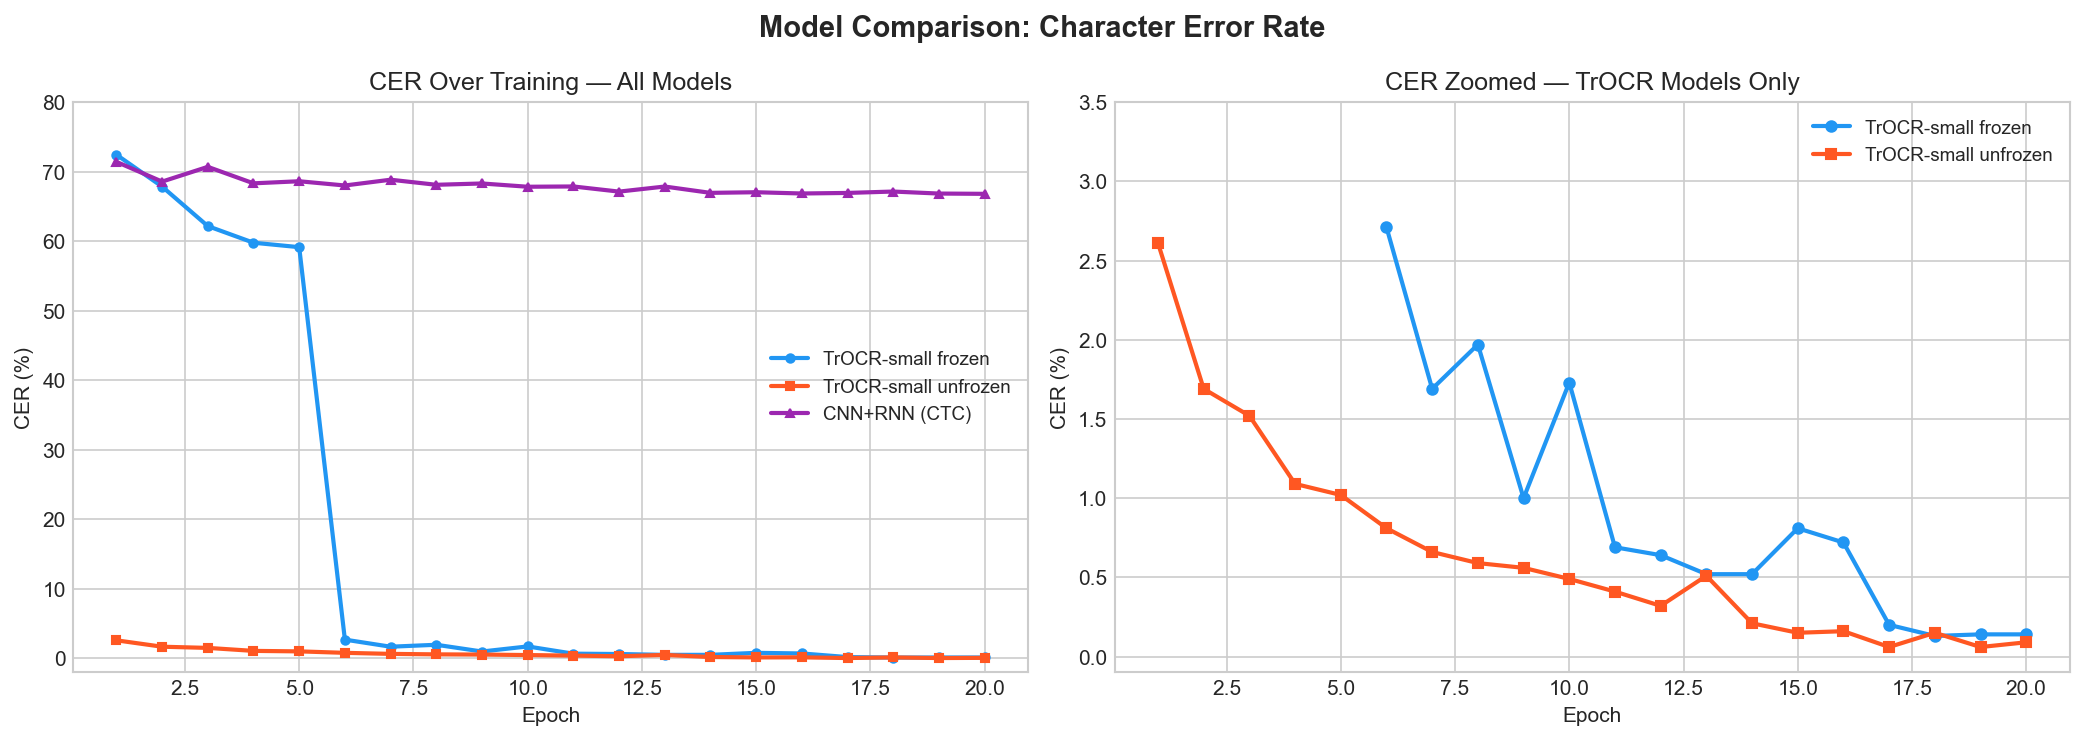
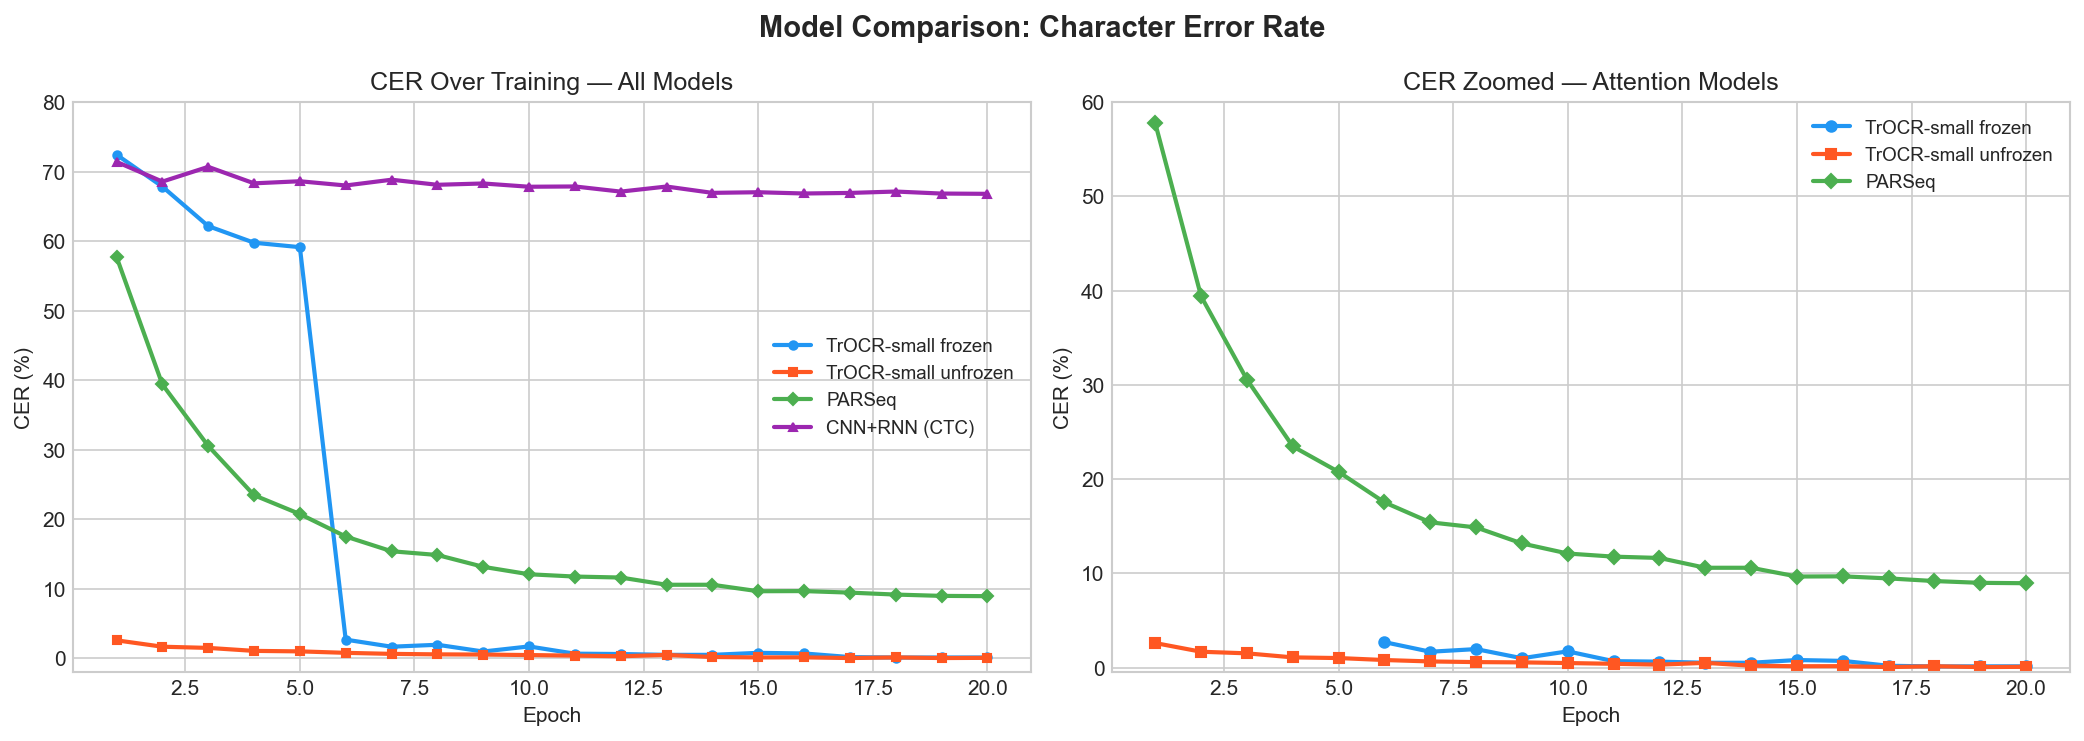
Add PARSeq results (8.96% CER) and update all comparison charts
PARSeq (24M params, ViT + Transformer decoder): 8.96% CER, 72.2% exact.
Clear second-best after TrOCR-small (0.06%), confirming that attention
is the key ingredient but pretrained language model decoder gives
TrOCR an additional 150x advantage.

Updated all comparison charts to include PARSeq alongside TrOCR-small,
CNN+RNN, and large model baselines.

diff --git a/scripts/plot_model_comparison.py b/scripts/plot_model_comparison.py
@@ -57,6 +57,20 @@ small_unfrozen_exact = [
     99.2, 99.7, 99.4, 99.8, 99.8,
 ]
 
+# PARSeq
+parseq_cer = [
+    57.75, 39.40, 30.57, 23.48, 20.77,
+    17.54, 15.42, 14.88, 13.18, 12.11,
+    11.78, 11.64, 10.60, 10.60, 9.67,
+    9.69, 9.47, 9.19, 9.00, 8.96,
+]
+parseq_exact = [
+    29.4, 38.7, 47.9, 55.0, 58.5,
+    60.8, 63.6, 65.3, 66.4, 67.4,
+    68.5, 69.2, 69.8, 70.1, 70.5,
+    70.8, 71.6, 72.1, 72.1, 72.2,
+]
+
 # Large models (single point, not epoch-based)
 large_models = {
     "GPT-4o\n(zero-shot)": 98.22,
@@ -70,6 +84,7 @@ colors = {
     "frozen": "#2196F3",
     "unfrozen": "#FF5722",
     "cnn_rnn": "#9C27B0",
+    "parseq": "#4CAF50",
     "large": "#607D8B",
 }
 
@@ -79,6 +94,7 @@ fig, (ax1, ax2) = plt.subplots(1, 2, figsize=(14, 5))
 # Full range
 ax1.plot(epochs, small_frozen_cer, "o-", color=colors["frozen"], label="TrOCR-small frozen", linewidth=2, markersize=4)
 ax1.plot(epochs, small_unfrozen_cer, "s-", color=colors["unfrozen"], label="TrOCR-small unfrozen", linewidth=2, markersize=4)
+ax1.plot(epochs, parseq_cer, "D-", color=colors["parseq"], label="PARSeq", linewidth=2, markersize=4)
 ax1.plot(epochs, cnn_rnn_cer, "^-", color=colors["cnn_rnn"], label="CNN+RNN (CTC)", linewidth=2, markersize=4)
 ax1.set_xlabel("Epoch")
 ax1.set_ylabel("CER (%)")
@@ -86,14 +102,15 @@ ax1.set_title("CER Over Training — All Models")
 ax1.legend(fontsize=9)
 ax1.set_ylim(-2, 80)
 
-# Zoomed to TrOCR only (epochs 6+)
+# Zoomed to TrOCR + PARSeq convergence
 ax2.plot(epochs[5:], small_frozen_cer[5:], "o-", color=colors["frozen"], label="TrOCR-small frozen", linewidth=2, markersize=5)
 ax2.plot(epochs, small_unfrozen_cer, "s-", color=colors["unfrozen"], label="TrOCR-small unfrozen", linewidth=2, markersize=5)
+ax2.plot(epochs, parseq_cer, "D-", color=colors["parseq"], label="PARSeq", linewidth=2, markersize=5)
 ax2.set_xlabel("Epoch")
 ax2.set_ylabel("CER (%)")
-ax2.set_title("CER Zoomed — TrOCR Models Only")
+ax2.set_title("CER Zoomed — Attention Models")
 ax2.legend(fontsize=9)
-ax2.set_ylim(-0.1, 3.5)
+ax2.set_ylim(-0.5, 60)
 
 fig.suptitle("Model Comparison: Character Error Rate", fontsize=14, fontweight="bold")
 plt.tight_layout()
@@ -106,6 +123,7 @@ fig, ax = plt.subplots(figsize=(10, 5))
 
 ax.plot(epochs, small_frozen_exact, "o-", color=colors["frozen"], label="TrOCR-small frozen", linewidth=2, markersize=4)
 ax.plot(epochs, small_unfrozen_exact, "s-", color=colors["unfrozen"], label="TrOCR-small unfrozen", linewidth=2, markersize=4)
+ax.plot(epochs, parseq_exact, "D-", color=colors["parseq"], label="PARSeq", linewidth=2, markersize=4)
 ax.plot(epochs, cnn_rnn_exact, "^-", color=colors["cnn_rnn"], label="CNN+RNN (CTC)", linewidth=2, markersize=4)
 ax.axhline(y=99, color="green", linestyle=":", alpha=0.4, label="99% target")
 ax.set_xlabel("Epoch")
@@ -125,6 +143,7 @@ fig, ax = plt.subplots(figsize=(12, 5))
 all_models = {
     "TrOCR-small\nunfrozen": 0.06,
     "TrOCR-small\nfrozen": 0.14,
+    "PARSeq": 8.96,
     "CNN+RNN\n(CTC)": 66.82,
     "Claude\n(few-shot)": 80.07,
     "GPT-4o\n(few-shot)": 93.23,
@@ -133,7 +152,7 @@ all_models = {
 }
 
 model_colors = [
-    colors["unfrozen"], colors["frozen"], colors["cnn_rnn"],
+    colors["unfrozen"], colors["frozen"], colors["parseq"], colors["cnn_rnn"],
     colors["large"], colors["large"], colors["large"], colors["large"],
 ]
 

diff --git a/docs/parseq_results.md b/docs/parseq_results.md
@@ -1,0 +1,64 @@
+# PARSeq Baseline Results — 2026-04-08
+
+## Experiment: PARSeq (Permuted Autoregressive Sequence) on Synthetic Ogham Data
+
+### Configuration
+- **Architecture**: ViT encoder (12 blocks, 384 dim) + Transformer decoder (1 layer) + permutation language modelling
+- **Parameters**: ~24M (encoder 21.4M, decoder 2.4M, head + embed ~0.07M)
+- **Dataset**: `DaraTraining/ogham-synthetic-200k` (200k train, 5k val)
+- **Training**: 20 epochs, batch 64, lr 1e-4, AdamW, CosineAnnealingLR, AMP
+- **Image size**: 32x128
+- **Charset**: 29 characters (28 Ogham + space)
+- **Pretrained**: ViT encoder from scene text recognition, decoder trained from scratch
+- **Paper**: Bautista & Atienza, ECCV 2022
+
+### Results
+
+Best CER: **8.96%** at epoch 20 | Best Exact: **72.2%** at epoch 20
+
+| Epoch | Train Loss | Val Loss | CER | Exact Match |
+|-------|-----------|----------|-----|-------------|
+| 1 | 1.1762 | 0.7947 | 57.75% | 29.4% |
+| 2 | 0.6815 | 0.5474 | 39.40% | 38.7% |
+| 3 | 0.4970 | 0.4399 | 30.57% | 47.9% |
+| 4 | 0.4111 | 0.3724 | 23.48% | 55.0% |
+| 5 | 0.3573 | 0.3320 | 20.77% | 58.5% |
+| 6 | 0.3196 | 0.2920 | 17.54% | 60.8% |
+| 7 | 0.2908 | 0.2690 | 15.42% | 63.6% |
+| 8 | 0.2683 | 0.2504 | 14.88% | 65.3% |
+| 9 | 0.2496 | 0.2282 | 13.18% | 66.4% |
+| 10 | 0.2333 | 0.2194 | 12.11% | 67.4% |
+| 11 | 0.2193 | 0.2031 | 11.78% | 68.5% |
+| 12 | 0.2071 | 0.1950 | 11.64% | 69.2% |
+| 13 | 0.1961 | 0.1861 | 10.60% | 69.8% |
+| 14 | 0.1868 | 0.1770 | 10.60% | 70.1% |
+| 15 | 0.1789 | 0.1711 | 9.67% | 70.5% |
+| 16 | 0.1722 | 0.1679 | 9.69% | 70.8% |
+| 17 | 0.1669 | 0.1622 | 9.47% | 71.6% |
+| 18 | 0.1629 | 0.1600 | 9.19% | 72.1% |
+| 19 | 0.1604 | 0.1582 | 9.00% | 72.1% |
+| 20 | 0.1589 | 0.1578 | 8.96% | 72.2% |
+
+### Key Findings
+
+1. **PARSeq is the clear second-best model** at 8.96% CER — 7.5x better than CNN+RNN (66.8%) but 149x worse than TrOCR-small (0.06%).
+
+2. **Attention is the key differentiator**: PARSeq (24M, attention) vs CNN+RNN (15M, CTC) — similar model sizes but PARSeq achieves 8.96% vs 66.8%. The Transformer decoder's cross-attention to visual features is fundamentally better than CTC's fixed-context approach.
+
+3. **Pretrained language model decoder matters**: TrOCR-small's RoBERTa decoder (pretrained on English) achieves 0.06% vs PARSeq's from-scratch decoder at 8.96%. Despite being trained on English text, RoBERTa's learned attention patterns transfer effectively to Ogham.
+
+4. **Still converging at epoch 20**: CER dropped from 57.7% to 9.0% with no plateau. More epochs (40-60) could potentially reach 3-5% CER. However, TrOCR-small reached 2.6% CER in just 1 epoch.
+
+5. **72.2% exact match is respectable**: Nearly 3 in 4 synthetic inscriptions are transcribed perfectly. The remaining 28% are close but have minor character errors.
+
+## Full Model Comparison
+
+| Model | Params | Architecture | Best CER | Best Exact | Epochs to <10% |
+|-------|--------|-------------|----------|------------|----------------|
+| **TrOCR-small unfrozen** | **62M** | **ViT + RoBERTa** | **0.06%** | **99.8%** | **1** |
+| TrOCR-small frozen | 62M | ViT + RoBERTa | 0.14% | 99.5% | 9 |
+| PARSeq | 24M | ViT + Transformer | 8.96% | 72.2% | 18 |
+| CNN+RNN (CTC) | 15M | ResNet-18 + BiLSTM | 66.82% | 24.8% | never |
+| TrOCR-base | 385M | ViT + RoBERTa-12L | 90.43% | 17.1% | never |
+| Claude (few-shot) | ~100B+ | Multimodal LLM | 80.07% | 0.0% | N/A |
+| GPT-4o (zero-shot) | ~200B | Multimodal LLM | 98.22% | 0.0% | N/A |
